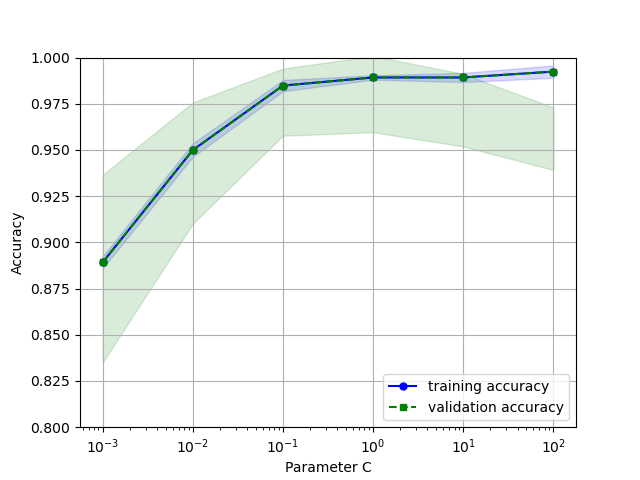
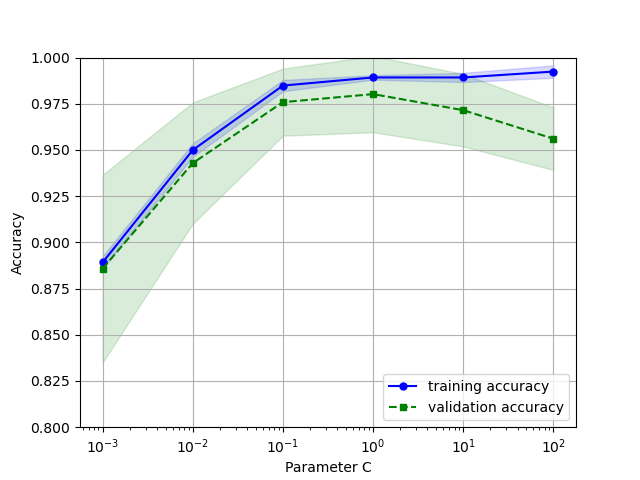
grid search

diff --git a/wdbc.py b/wdbc.py
@@ -153,8 +153,8 @@ plt.plot(param_range, train_mean,
 plt.fill_between(param_range, 
                 train_mean + train_std,
                 train_mean - train_std, 
-                alpha=0.15,color='blue')
-plt.plot(param_range, train_mean,
+                alpha=0.15, color='blue')
+plt.plot(param_range, test_mean,
         color='green', linestyle='--',
         marker='s', markersize=5, 
         label='validation accuracy')
@@ -163,9 +163,30 @@ plt.fill_between(param_range,
                 test_mean - test_std,
                 alpha=0.15, color='green')
 plt.grid()
-plt.legend(loc='lower right')
 plt.xscale('log')
+plt.legend(loc='lower right')
 plt.xlabel('Parameter C')
 plt.ylabel('Accuracy')
 plt.ylim([0.8, 1.0])
 plt.show()
+
+#11.以網格搜尋找到最佳超參數組合，以便提高模型效能
+from sklearn.model_selection import GridSearchCV
+from sklearn.svm import SVC
+
+pipe_svc = make_pipeline(StandardScaler(),
+                        SVC(random_state=1))
+param_range = [0.0001, 0.001, 0.01, 0.1,
+                1.0, 10.0, 100.0, 1000.0]
+param_grid = {'svc__kernel': ['linear', 'rbf'], 
+                'svc__C': [0.1, 1, 10, 100]}
+
+
+gs = GridSearchCV(estimator=pipe_svc,
+                param_grid=param_grid,
+                scoring='accuracy',
+                cv=10,
+                n_jobs=-1)
+gs = gs.fit(X_train, y_train)
+print(gs.best_score_)
+print(gs.best_params_)
